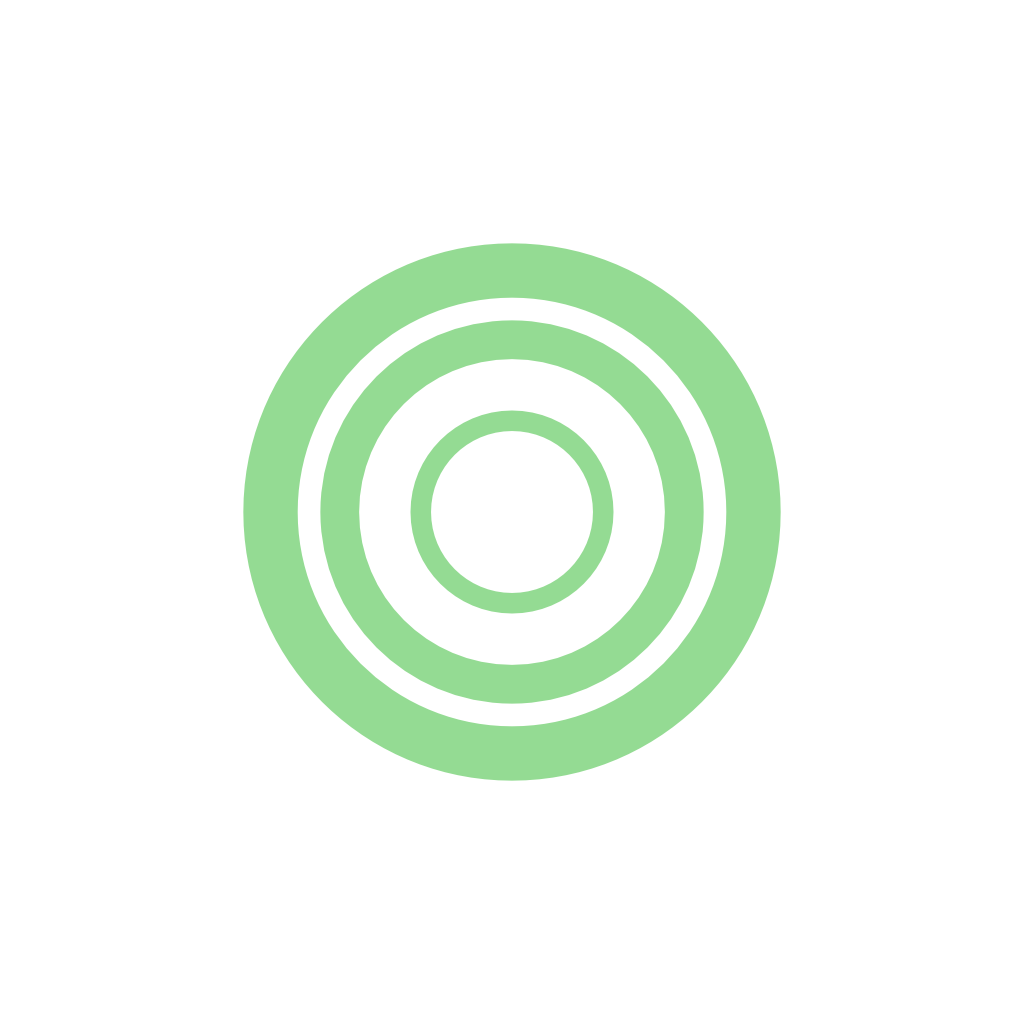
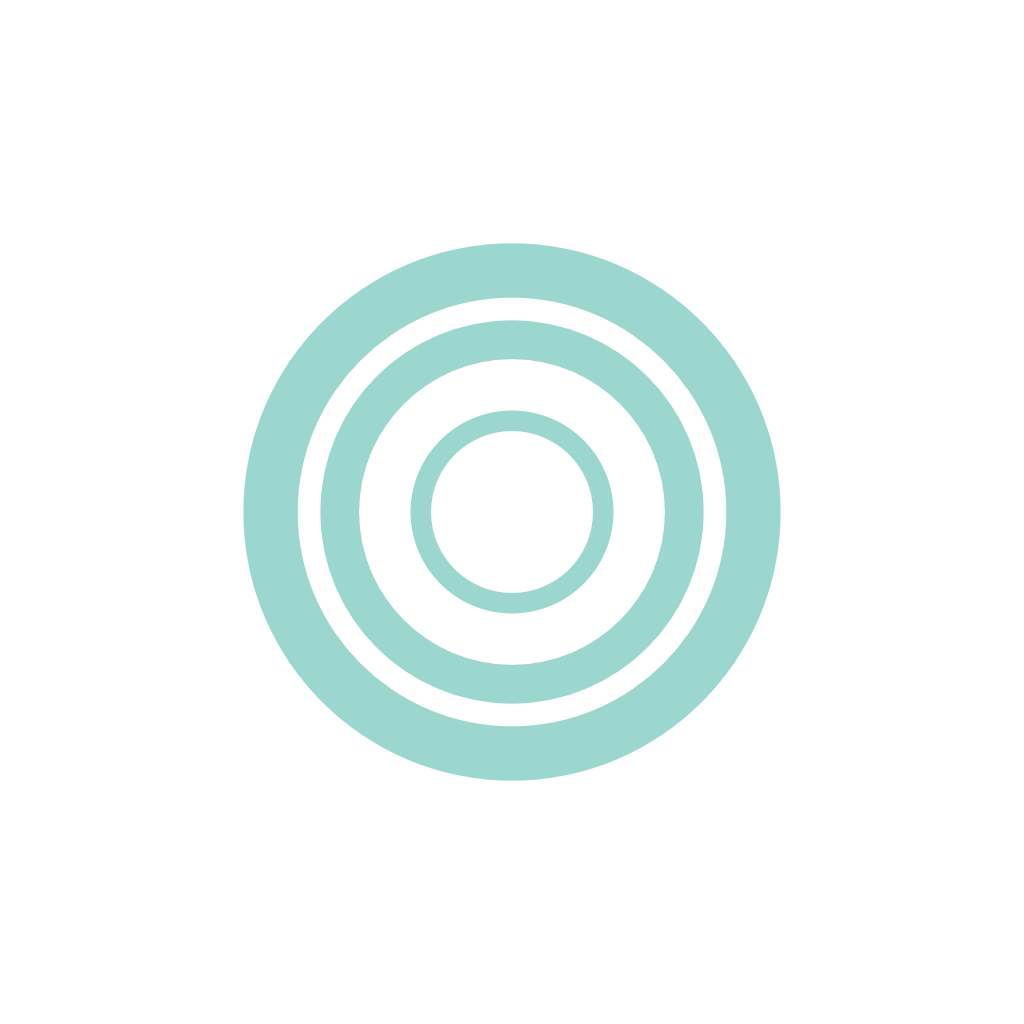
small changes

Changed region(s): [[0.2188, 0.2188, 0.7812, 0.7812]]

diff --git a/lib/components/image_selector.dart b/lib/components/image_selector.dart
@@ -5,7 +5,6 @@ import 'package:image_picker/image_picker.dart';
 import 'package:numismatic/components/rounded_button.dart';
 import 'package:numismatic/constants/view_constants.dart';
 import 'package:numismatic/model/coin_collection_model.dart';
-import 'package:permission_handler/permission_handler.dart';
 import 'package:provider/provider.dart';
 
 import 'deletable_image.dart';
@@ -35,15 +34,13 @@ class _ImageSelectorState extends State<ImageSelector> {
   }
 
   _addImage() async {
-    if (await Permission.photosAddOnly.request().isGranted) {
-      var image = await ImagePicker().pickImage(source: ImageSource.gallery);
-      if (image != null) {
-        var base64 = base64Encode(await image.readAsBytes());
-        setState(() {
-          _images.add(base64);
-          widget.callback(_images);
-        });
-      }
+    var image = await ImagePicker().pickImage(source: ImageSource.gallery);
+    if (image != null) {
+      var base64 = base64Encode(await image.readAsBytes());
+      setState(() {
+        _images.add(base64);
+        widget.callback(_images);
+      });
     }
   }
 

diff --git a/lib/constants/view_constants.dart b/lib/constants/view_constants.dart
@@ -6,7 +6,7 @@ class ViewConstants {
   // colors
   static const colorCardTitle = Color(0x77000000);
   static final colorPrimary = Colors.teal[600]!;
-  static final colorPrimarySwatch = Colors.lightBlue;
+  static final colorPrimarySwatch = Colors.teal;
   static final colorSearchBar = Colors.teal[400]!;
   static const colorShadow = Color(0x77000000);
   static final colorWarning = Colors.red[400]!;

diff --git a/lib/views/add_coin_view.dart b/lib/views/add_coin_view.dart
@@ -196,7 +196,7 @@ class _AddCoinViewState extends State<AddCoinView> {
             padding: ViewConstants.paddingAllLarge,
             children: [
               AutocompleteInput(
-                label: 'Coin Type',
+                label: 'Type',
                 reference: _coin.type,
                 options: model.allCoinTypes,
                 decoration: ViewConstants.decorationInput(
